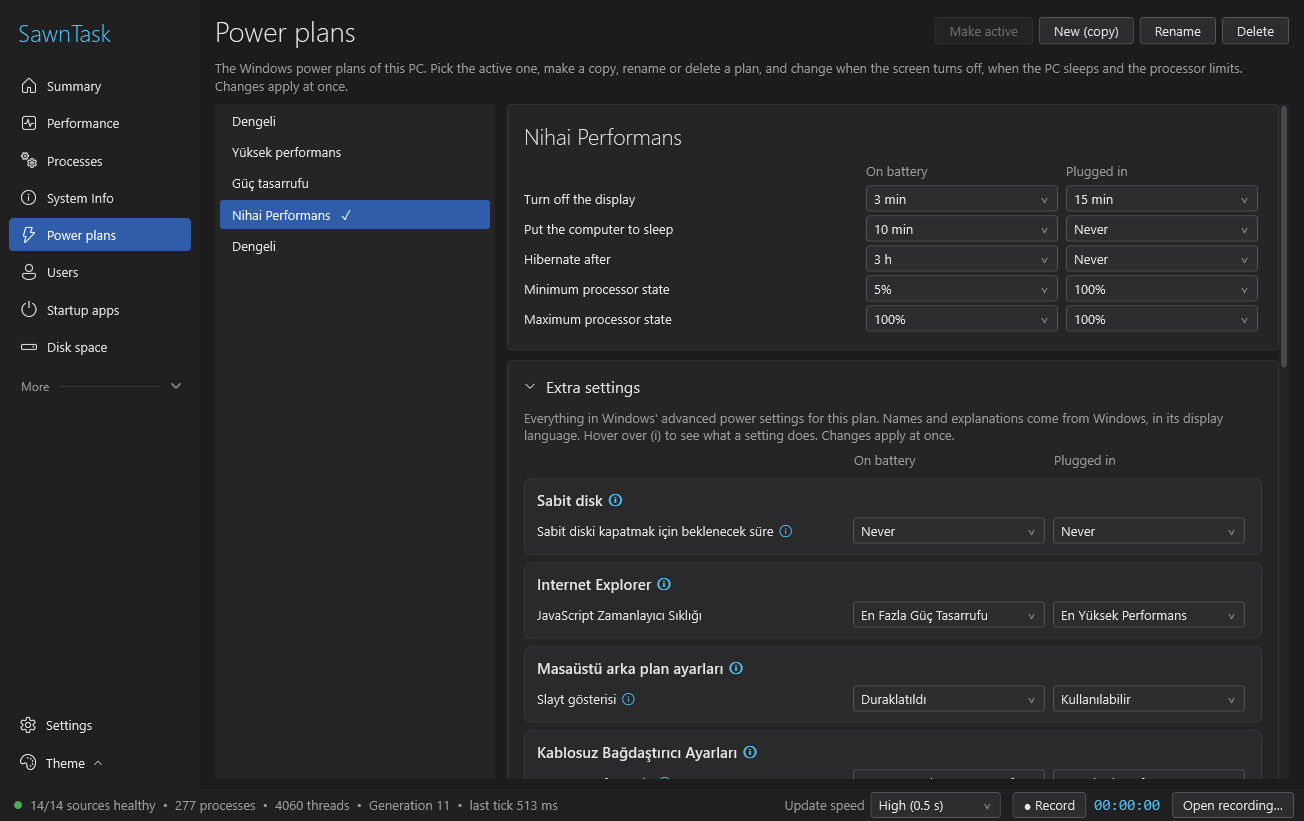
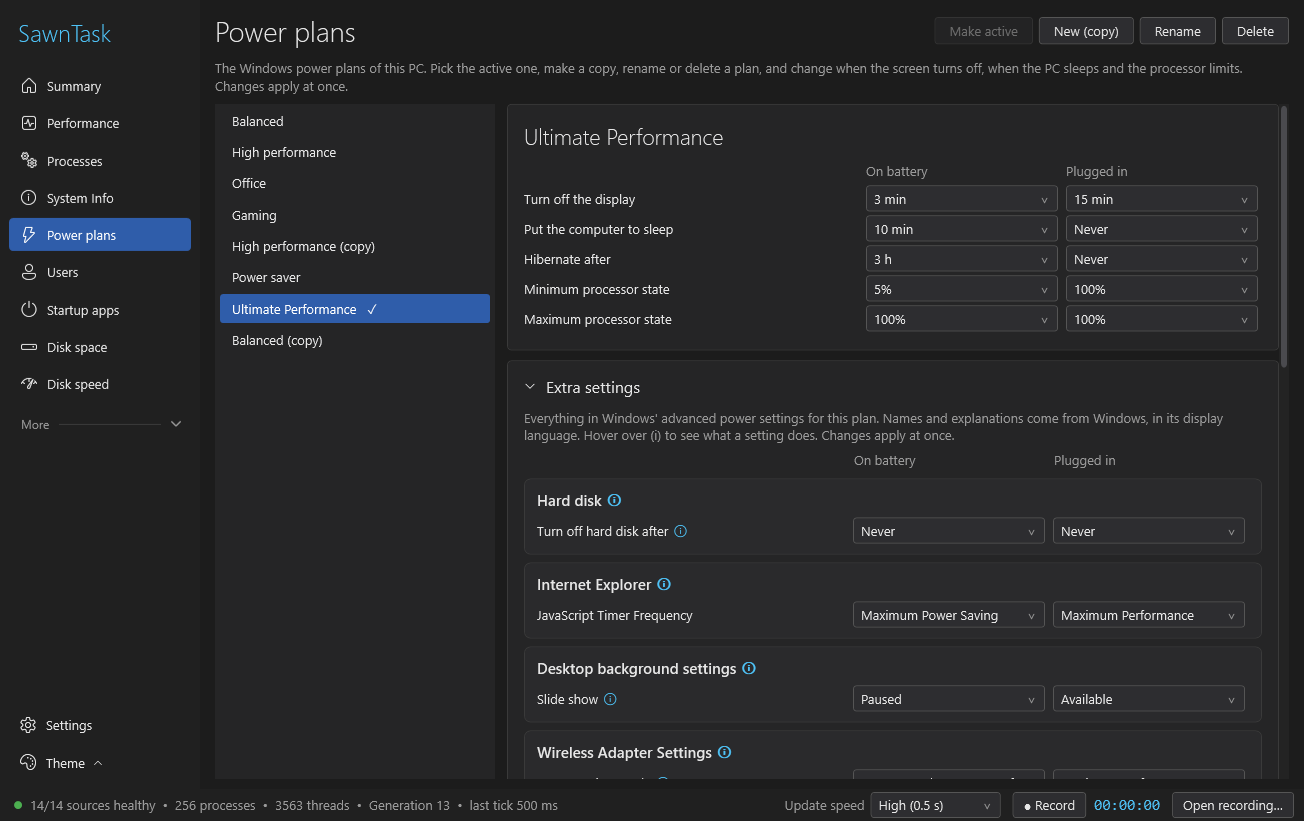
SawnTask 1.1.0: README, screenshots, English demo text for power plan screenshots

diff --git a/src/SawnTask/Core/PowerPlans.cs b/src/SawnTask/Core/PowerPlans.cs
@@ -73,7 +73,9 @@ public static class PowerPlans
                 if (status == NoMoreItems) break;
                 Check(status);
                 var id = Marshal.PtrToStructure<Guid>(buffer);
-                plans.Add(new PowerPlan(id, Name(id), id == active));
+                string name = Name(id);
+                if (DemoEnglish && plans.Any(p => p.Name == name)) name += " (copy)"; // two plans may share a name
+                plans.Add(new PowerPlan(id, name, id == active));
             }
         }
         finally { Marshal.FreeHGlobal(buffer); }
@@ -89,7 +91,7 @@ public static class PowerPlans
         try
         {
             return PowerReadFriendlyName(IntPtr.Zero, ref plan, IntPtr.Zero, IntPtr.Zero, buffer, ref size) == 0
-                ? Marshal.PtrToStringUni(buffer) ?? plan.ToString()
+                ? Demo(Marshal.PtrToStringUni(buffer) ?? plan.ToString())
                 : plan.ToString();
         }
         finally { Marshal.FreeHGlobal(buffer); }
@@ -167,6 +169,24 @@ public static class PowerPlans
     [DllImport("powrprof.dll")] static extern uint PowerReadValueIncrement(IntPtr root, ref Guid subGroup, ref Guid setting, out uint value);
     [DllImport("powrprof.dll")] static extern uint PowerReadValueUnitsSpecifier(IntPtr root, ref Guid subGroup, ref Guid setting, IntPtr buffer, ref uint size);
 
+    // For README screenshots only: SAWNTASK_DEMO_ENGLISH=1 shows the Windows-supplied names in English
+    // (a Turkish Windows gives Turkish text, which a reader of the English README would not follow).
+    static readonly bool DemoEnglish = Environment.GetEnvironmentVariable("SAWNTASK_DEMO_ENGLISH") == "1";
+    static readonly Dictionary<string, string> DemoText = new(StringComparer.OrdinalIgnoreCase)
+    {
+        ["Dengeli"] = "Balanced", ["Yüksek performans"] = "High performance", ["Güç tasarrufu"] = "Power saver",
+        ["Nihai Performans"] = "Ultimate Performance", ["Sabit disk"] = "Hard disk",
+        ["Sabit diski kapatmak için beklenecek süre"] = "Turn off hard disk after",
+        ["JavaScript Zamanlayıcı Sıklığı"] = "JavaScript Timer Frequency", ["En Fazla Güç Tasarrufu"] = "Maximum Power Saving",
+        ["En Yüksek Performans"] = "Maximum Performance", ["Masaüstü arka plan ayarları"] = "Desktop background settings",
+        ["Slayt gösterisi"] = "Slide show", ["Duraklatıldı"] = "Paused", ["Kullanılabilir"] = "Available",
+        ["Kablosuz Bağdaştırıcı Ayarları"] = "Wireless Adapter Settings", ["Güç Tasarrufu Modu"] = "Power Saving Mode",
+        ["Maksimum Performans"] = "Maximum Performance", ["Düşük Güç Tasarrufu"] = "Low Power Saving",
+        ["Orta Güç Tasarrufu"] = "Medium Power Saving", ["Maksimum Güç Tasarrufu"] = "Maximum Power Saving",
+    };
+
+    static string Demo(string text) => DemoEnglish && DemoText.TryGetValue(text.Trim(), out var english) ? english : text;
+
     // powrprof's "read a string" functions are called twice: once for the size, once for the text.
     delegate uint StringReader(IntPtr buffer, ref uint size);
 
@@ -175,7 +195,7 @@ public static class PowerPlans
         uint size = 0;
         if (read(IntPtr.Zero, ref size) != 0 || size == 0) return "";
         IntPtr buffer = Marshal.AllocHGlobal((int)size);
-        try { return read(buffer, ref size) == 0 ? Marshal.PtrToStringUni(buffer) ?? "" : ""; }
+        try { return read(buffer, ref size) == 0 ? Demo(Marshal.PtrToStringUni(buffer) ?? "") : ""; }
         finally { Marshal.FreeHGlobal(buffer); }
     }
 

diff --git a/README.md b/README.md
@@ -36,12 +36,14 @@ Both are on the [Releases page](https://github.com/soldsawn/SawnTask/releases/la
 
 ### "Why is my computer slow?"
 The **Summary** page shows CPU, memory, disks, network, GPU and CPU power on one screen, plus the
-processes using the most CPU right now. The CPU graph keeps the last 600 samples (five minutes
-at the fastest update speed): the newest seconds are drawn wide, older minutes are gently
-squeezed to the left.
+processes using the most CPU right now. The graphs keep five minutes of history by default
+(up to an hour in Settings): the newest seconds are drawn wide, older minutes are gently
+squeezed to the left, or drawn at one scale if you prefer.
 **Drag across the graph** to pick any stretch of time and the list switches to the *average* CPU
 use of every process over that stretch. A spike from two minutes ago gets a name.
 Hover to see a single moment; click a process to jump to it on the Processes page.
+The memory and GPU cards work the same way: hover or drag to see the value at that moment, or
+the average, lowest and highest of the stretch.
 
 ### "Why is it so hot and loud?"
 CPU package temperature and power, integrated-graphics and board temperatures come from **Intel
@@ -66,6 +68,15 @@ grouped as Windows groups them, with an **ⓘ** beside each setting explaining w
 I/O, threads and handles; end task, suspend, set priority, open location), **Startup apps**
 (enable/disable exactly like Task Manager does), **Services**, **Connections** (every TCP/UDP
 socket with its process and who can reach it), **Drivers**, **Installed apps** and **Users**.
+
+### "How fast is my SSD, and is it healthy?"
+**Disk speed** measures a drive with sequential and random reads and writes (the same four tests
+the well-known disk benchmarks use) and shows four plain numbers with a one-line meaning each,
+a live speed graph and a verdict for that kind of disk (NVMe, SATA SSD, hard disk, USB).
+**Advanced** has all eight measurements with IOPS and latency, plus the file size and number of
+passes. Earlier tests are kept and compared with the one before. The disk's own health report
+(temperature, life used, data written, errors) is shown beside the result. The test writes one
+temporary file to the drive you pick and deletes it afterwards.
 
 ### "Where did my disk space go?"
 **Disk space** scans a drive or folder in parallel and shows a size-sorted tree, the largest
@@ -100,6 +111,8 @@ system folders.
 | **Performance:** every logical processor, speed, caches, up time and last shutdown. | **Light theme:** every page follows the Windows-style dark or light theme. |
 | ![System Info](docs/screenshots/system-info.png) | ![Power plans with extra settings](docs/screenshots/power-plans.png) |
 | **System Info:** the hardware, read from Windows and the firmware. | **Power plans:** basic settings on top, every advanced setting below. |
+| ![Disk speed test](docs/screenshots/disk-speed.png) | |
+| **Disk speed:** four plain numbers, a verdict and the disk's health. | |
 
 ---
 
@@ -108,14 +121,19 @@ system folders.
 - **Summary:** CPU (utilization, kernel time, temperature, speed), memory, network, disks, GPU,
   CPU power, sensors, top CPU processes; CPU history with period selection.
 - **Performance:** CPU, memory, GPU, disks, network, CPU power and thermals with one-minute
-  graphs; per-logical-processor graphs (Expanded) or one graph (Combined); CPU statistics.
+  graphs and a table of figures for each: per-logical-processor graphs (Expanded) or one graph
+  (Combined) with CPU statistics; memory (committed, cached, pools, modules); GPU per adapter
+  with a memory graph; disks with transfer rate, models and volumes; network adapters; sensors.
 - **Processes · Users · Connections · Startup apps · Services · Installed apps · Drivers**
 - **System Info:** hardware overview, processor, memory, graphics, storage, power, network,
   operating system, diagnostics.
 - **Power plans:** plans, basic settings, all advanced settings with explanations.
 - **Disk space:** parallel scanner, tree, largest files, file types, Recycle Bin.
+- **Disk speed:** sequential and random read/write test, live graph, verdict by disk type, disk
+  health, history of earlier tests.
 - **Settings:** English / Türkçe, dark / light theme, update speed (0.5 s, 1 s, 2 s, paused),
-  graph frame rate, smooth curves, start page.
+  graph frame rate, smooth curves, history length (5 to 60 minutes), compress older history,
+  start page.
 
 **Limits worth knowing:** temperatures need Intel Dynamic Tuning (most Intel laptops) or an
 NVIDIA GPU; AMD CPU and GPU temperatures are not read yet. Machines with more than 64 logical
@@ -147,6 +165,8 @@ Command-line switches for testing:
 |---|---|
 | `--selftest out.txt` | Runs every data source without a window and writes what each one measured |
 | `--sysinfo out.txt` | Writes everything System Info reads |
+| `--bench out.txt D:\ [quick\|normal\|thorough]` | Runs the disk speed test without a window |
+| `--health out.txt` | Writes what each disk reports about its own health |
 | `--snapshot out.png [seconds] [page]` | Opens the window, waits, saves a screenshot and exits |
 
 ### Layout
@@ -183,11 +203,13 @@ SmartScreen uyarısı çıkabilir: **Ek bilgi → Yine de çalıştır**.
 - **Sıcaklıklar:** Intel Dynamic Tuning (çoğu Intel dizüstü) ve NVIDIA NVML üzerinden; sürücü
   kurmaz, yönetici hakkı gerektirmez.
 - **Performans:** her mantıksal işlemci için ayrı grafik, hız, önbellekler, açık kalma süresi ve
-  son kapanma nedeni.
+  son kapanma nedeni; bellek, GPU (kart başına), disk, ağ, güç ve sıcaklık için ayrı ayrıntı görünümleri.
 - **Sistem bilgisi:** işlemci, bellek modülleri, ekran kartları, diskler, pil, ağ ve Windows.
 - **Güç planları:** planları değiştir, kopyala, yeniden adlandır, sil; **Ekstra ayarlar** altında
   Windows'un tüm gelişmiş güç ayarları, her birinin yanında ne işe yaradığını anlatan **ⓘ** ile.
 - **İşlemler, Başlangıç uygulamaları, Hizmetler, Bağlantılar, Sürücüler, Yüklü uygulamalar, Kullanıcılar.**
+- **Disk hızı:** sıralı ve rastgele okuma/yazma testi, canlı grafik, disk türüne göre yorum, diskin
+  kendi sağlık raporu ve önceki testlerle karşılaştırma.
 - **Disk alanı:** klasör ağacı, en büyük dosyalar, dosya türleri, Geri Dönüşüm Kutusu'na taşıma.
 - **Arayüz:** Türkçe / İngilizce, koyu / açık tema.
 
